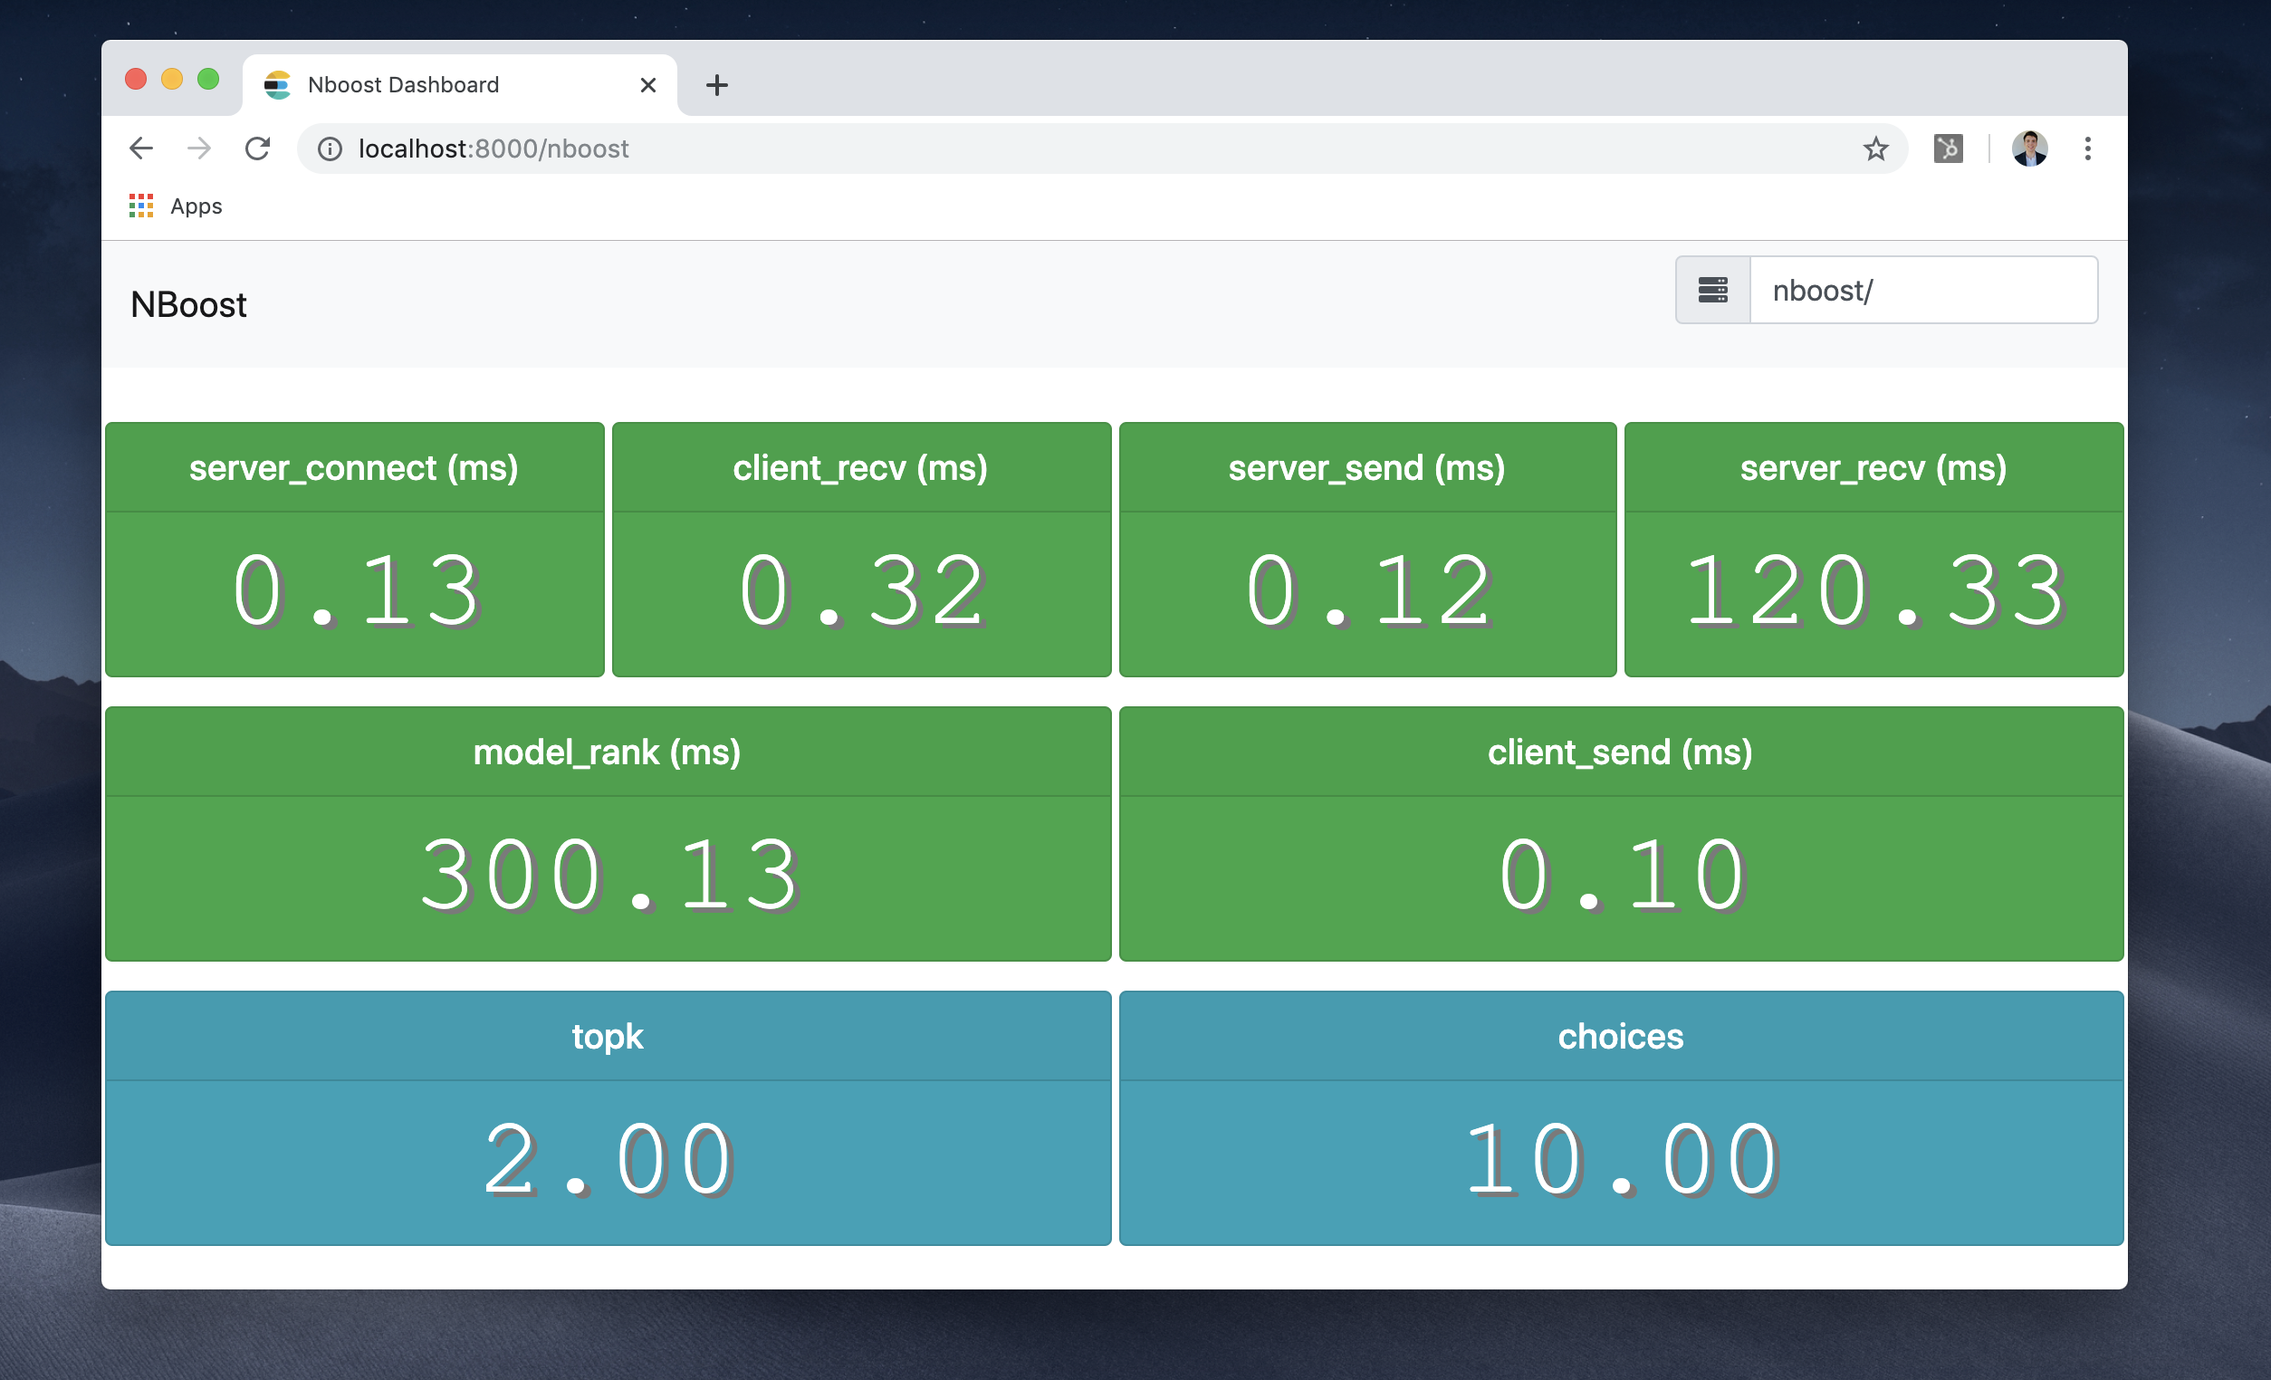
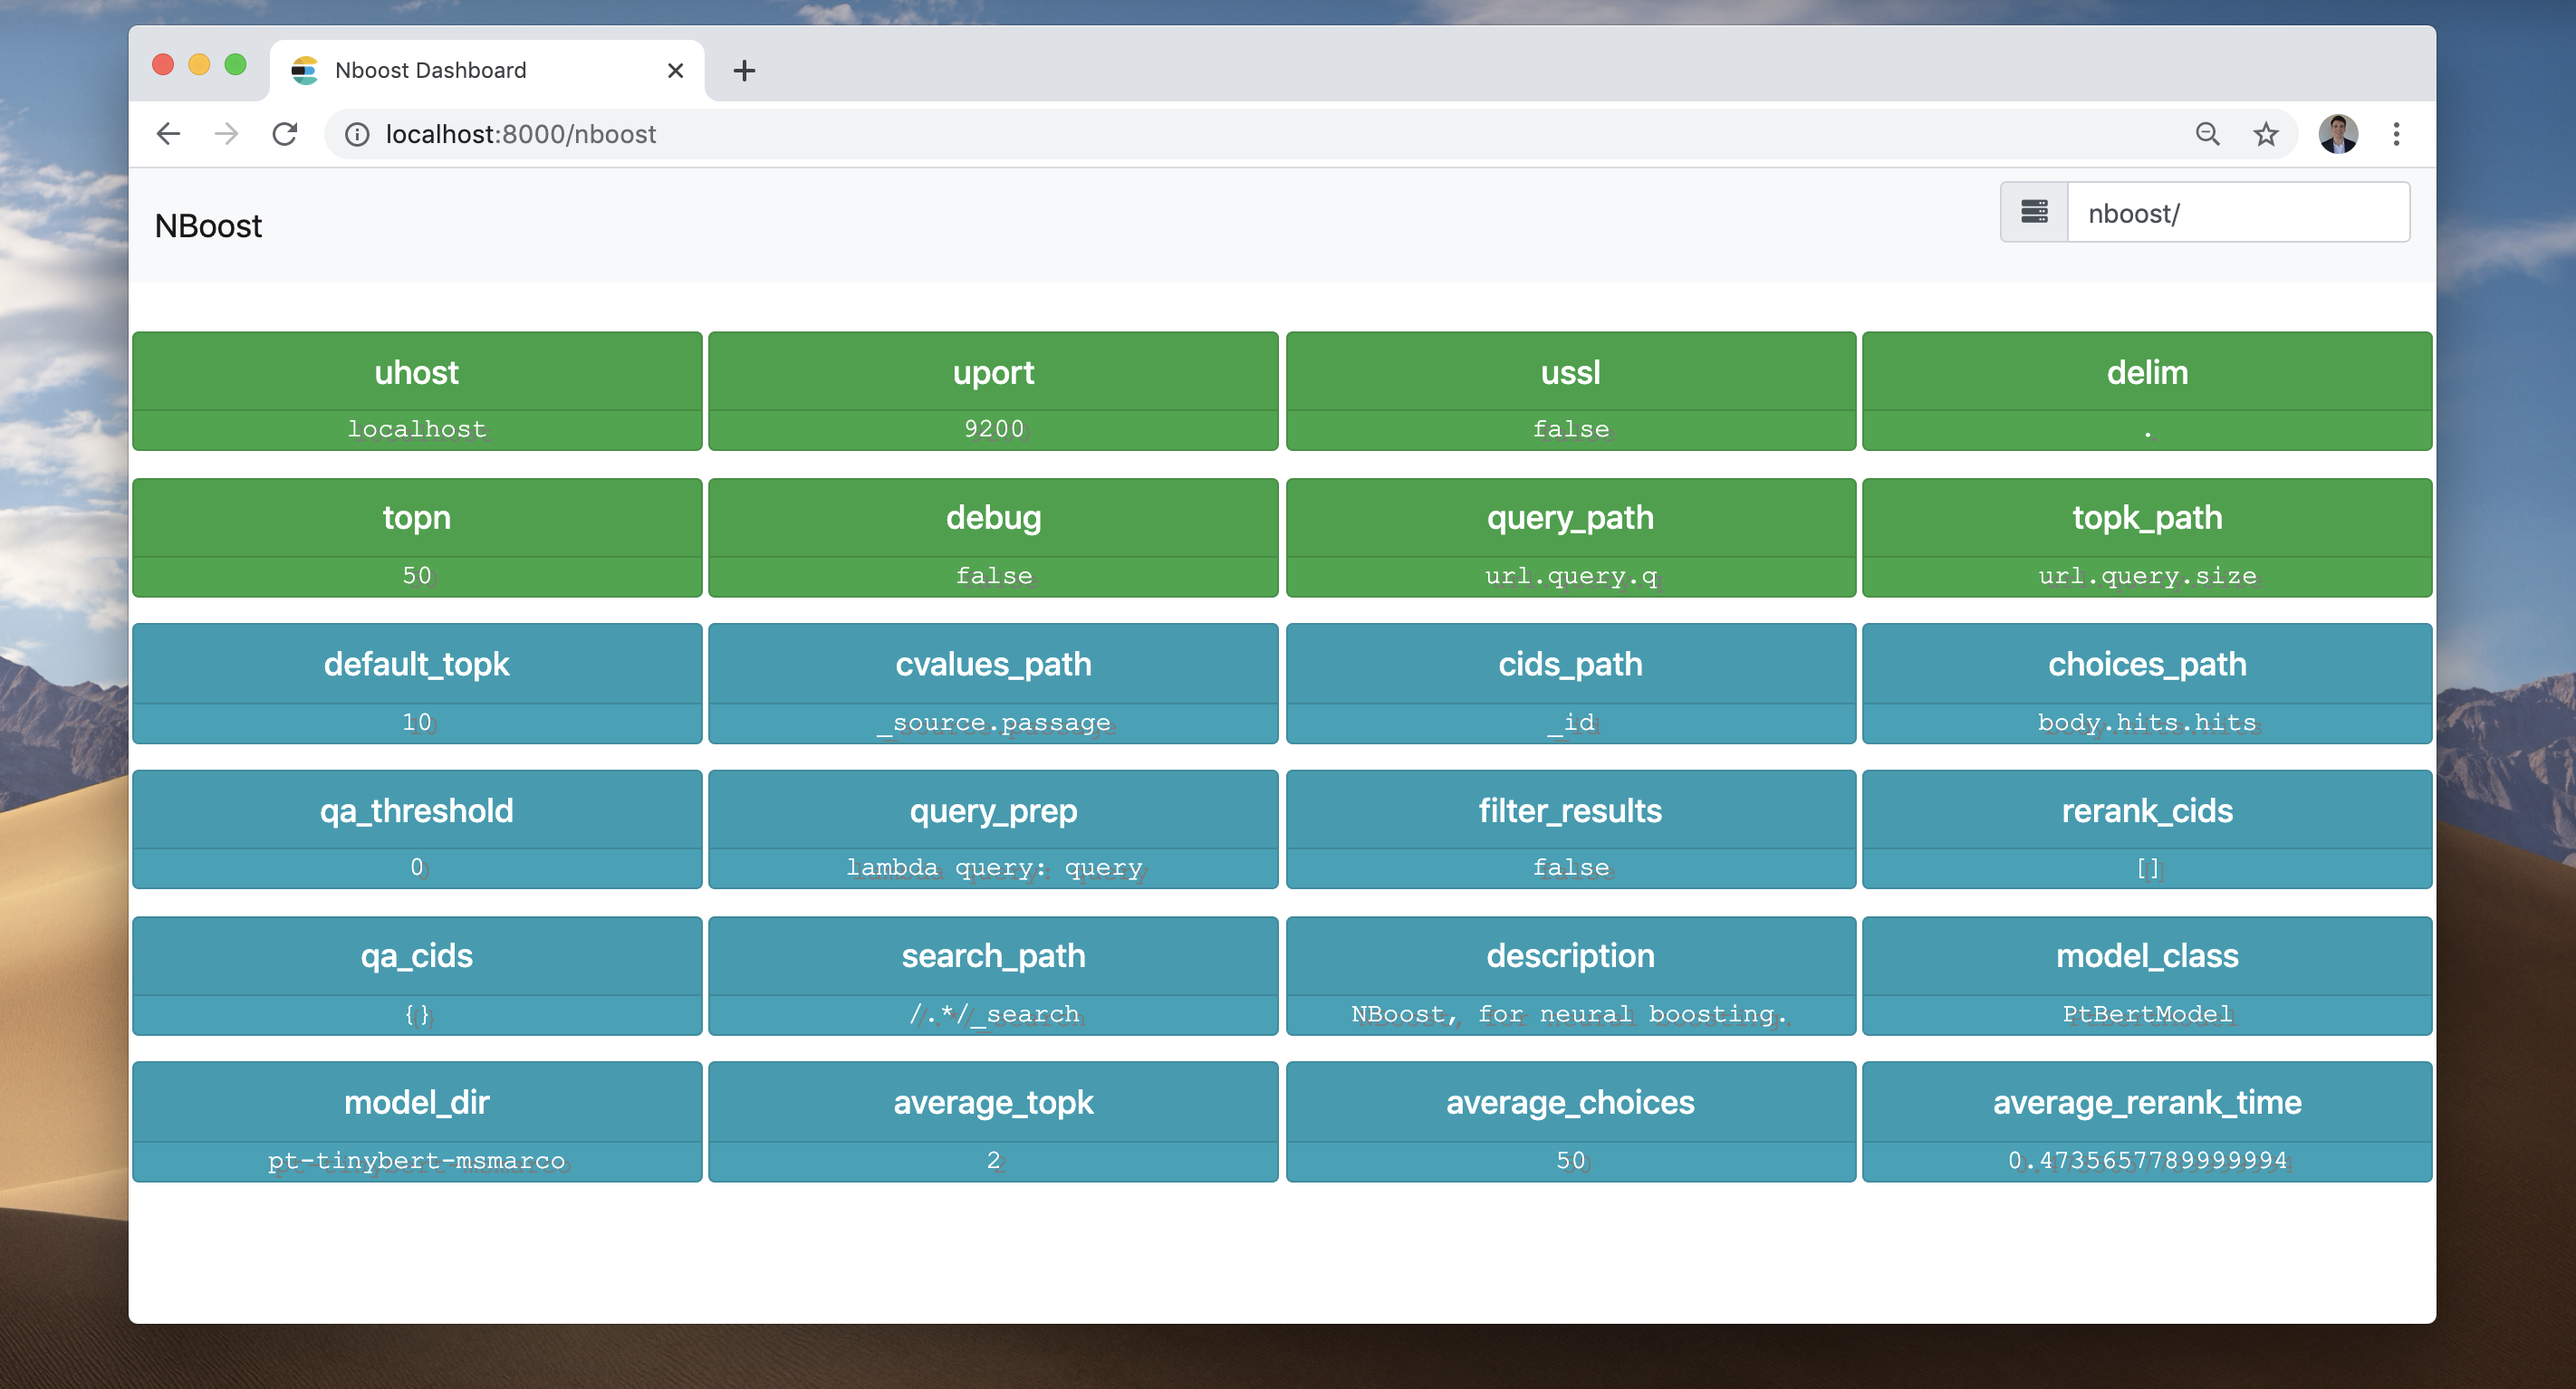
Update/README: getting started

diff --git a/README.md b/README.md
@@ -220,12 +220,11 @@ Let's check out the **NBoost frontend**. Go to your browser and visit [localhost
 
 The frontend recorded everything that happened:
 
-1. NBoost got a request for **2 search results**. *(0.32 ms)*
-2. NBoost connected to the server. *(0.13 ms)*
-3. NBoost sent a request for 10 search results to the server. *(0.12 ms)* 
-4. NBoost received **10 search results** from the server. *(120.33 ms)*
-5. The model picked the best 2 search results. *(300 ms)*
-6. NBoost returned the search results to the client. *(0.10 ms)* 
+1. NBoost got a request for **2 search results**. *(average_topk)*
+2. NBoost connected to the server at `localhost:9200`.
+3. NBoost sent a request for 50 search results to the server. *(topn)* 
+4. NBoost received **50 search results** from the server. *(average_choices)*
+5. The model picked the best 2 search results and returned them to the client.
 
 #### Elastic made easy
 To increase the number of parallel proxies, simply increase `--workers`. For a more robust deployment approach, you can distribute the proxy via Kubernetes (see below).
@@ -235,6 +234,9 @@ To increase the number of parallel proxies, simply increase `--workers`. For a m
 <p align="center">
 <img src="https://github.com/koursaros-ai/nboost/raw/master/.github/sailboat.svg?sanitize=true" width="100%">
 </p>
+
+#### See also
+For in-depth query DSL and other search API solutions (such as the Bing API), see the [docs](https://nboost.readthedocs.io/en/latest/chapter/bing-api.html).
 
 ### Deploying NBoost via Kubernetes
 We can easily deploy NBoost in a Kubernetes cluster using [Helm](https://helm.sh/).
